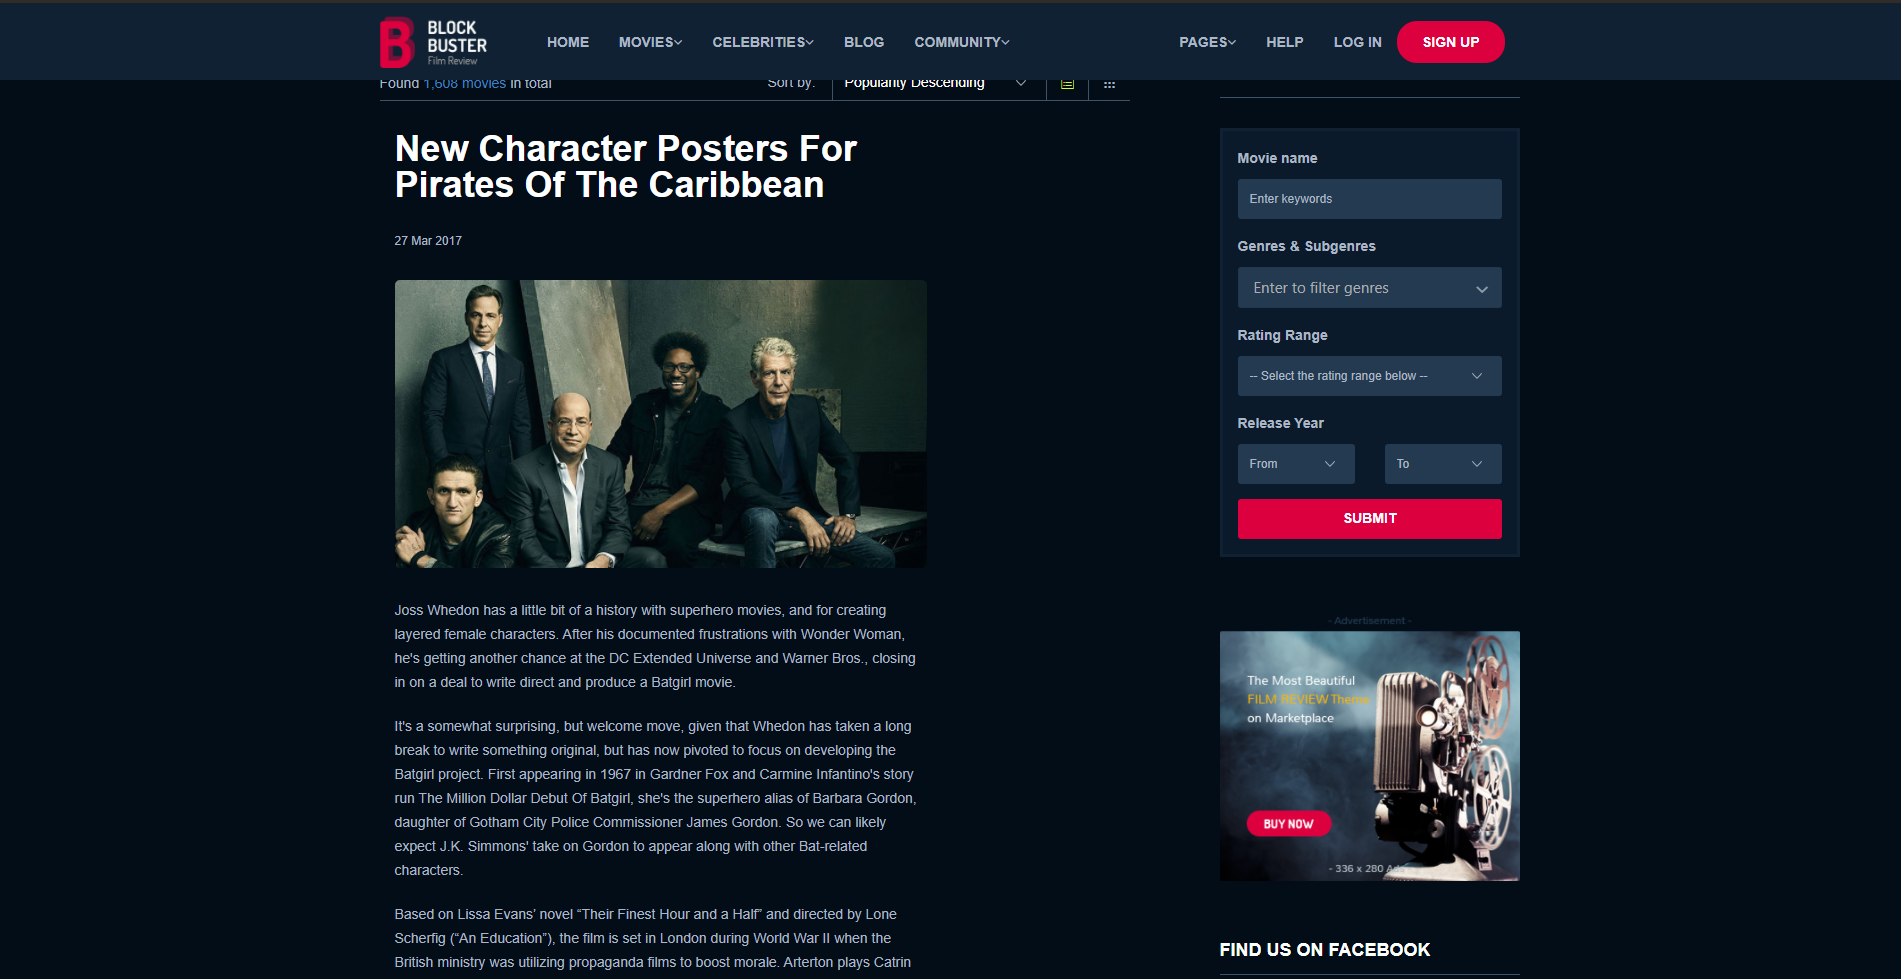
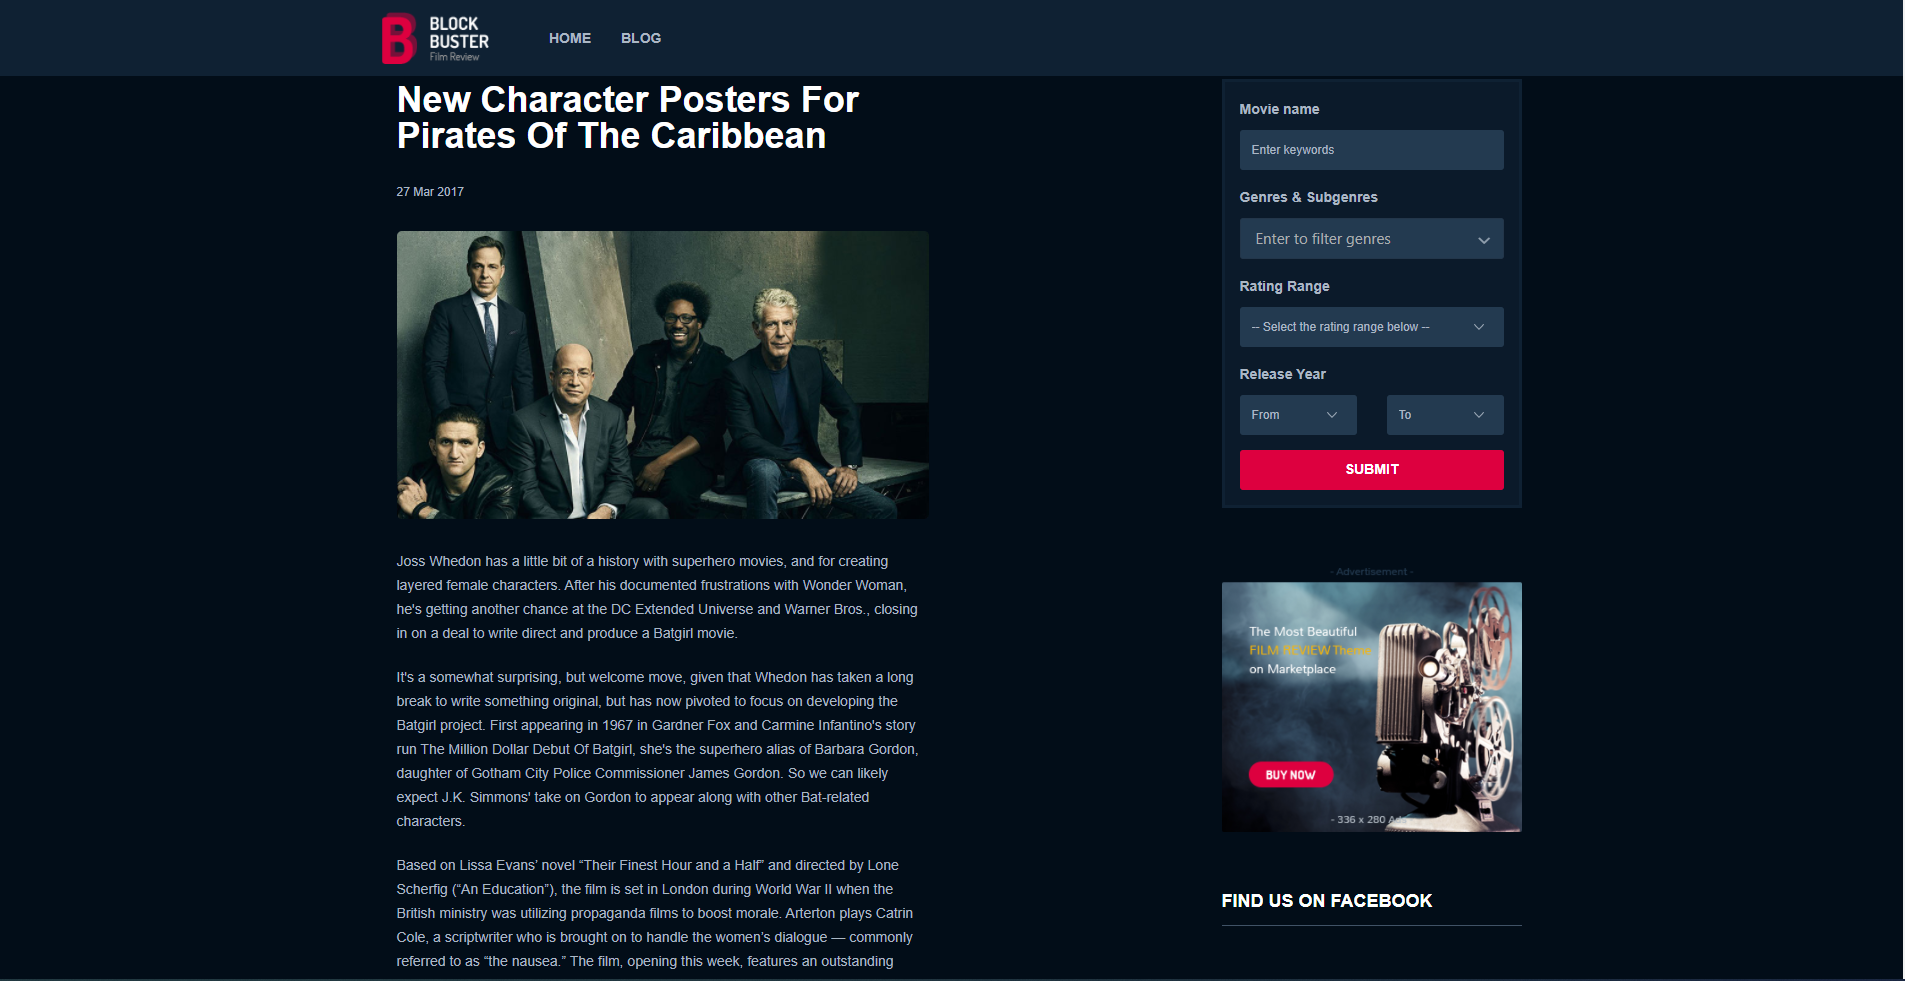
updated

Changed region(s): [[0.0, 0.0, 1.0, 1.0]]

diff --git a/src/views/PageWrapper.js b/src/views/PageWrapper.js
@@ -121,103 +121,9 @@ function PageWrapper(props) {
                   </a>
                 </li>
                 <li className='dropdown first'>
-                  <a lassName='btn btn-default dropdown-toggle lv1' data-toggle='dropdown' data-hover='dropdown'>
-                    movies<i className='fa fa-angle-down' aria-hidden='true'></i>
-                  </a>
-                  <ul className='dropdown-menu level1'>
-                    <li className='dropdown'>
-                      <a href='#' className='dropdown-toggle' data-toggle='dropdown'>
-                        Movie grid<i className='ion-ios-arrow-forward'></i>
-                      </a>
-                      <ul className='dropdown-menu level2'>
-                        <li>
-                          <a href='moviegrid.html'>Movie grid</a>
-                        </li>
-                        <li>
-                          <a href='moviegridfw.html'>movie grid full width</a>
-                        </li>
-                      </ul>
-                    </li>
-                    <li>
-                      <a href='movielist.html'>Movie list</a>
-                    </li>
-                    <li>
-                      <a href='moviesingle.html'>Movie single</a>
-                    </li>
-                    <li className='it-last'>
-                      <a href='seriessingle.html'>Series single</a>
-                    </li>
-                  </ul>
-                </li>
-                <li className='dropdown first'>
-                  <a className='btn btn-default dropdown-toggle lv1' data-toggle='dropdown' data-hover='dropdown'>
-                    celebrities <i className='fa fa-angle-down' aria-hidden='true'></i>
-                  </a>
-                  <ul className='dropdown-menu level1'>
-                    <li>
-                      <a href='celebritygrid01.html'>celebrity grid 01</a>
-                    </li>
-                    <li>
-                      <a href='celebritygrid02.html'>celebrity grid 02 </a>
-                    </li>
-                    <li>
-                      <a href='celebritylist.html'>celebrity list</a>
-                    </li>
-                    <li className='it-last'>
-                      <a href='celebritysingle.html'>celebrity single</a>
-                    </li>
-                  </ul>
-                </li>
-                <li className='dropdown first'>
                   <a href='/blog' className='btn btn-default dropdown-toggle lv1'>
                     BLOG
                   </a>
-                </li>
-                <li className='dropdown first'>
-                  <a className='btn btn-default dropdown-toggle lv1' data-toggle='dropdown' data-hover='dropdown'>
-                    community <i className='fa fa-angle-down' aria-hidden='true'></i>
-                  </a>
-                  <ul className='dropdown-menu level1'>
-                    <li>
-                      <a href='userfavoritegrid.html'>user favorite grid</a>
-                    </li>
-                    <li>
-                      <a href='userfavoritelist.html'>user favorite list</a>
-                    </li>
-                    <li>
-                      <a href='userprofile.html'>user profile</a>
-                    </li>
-                    <li className='it-last'>
-                      <a href='userrate.html'>user rate</a>
-                    </li>
-                  </ul>
-                </li>
-              </ul>
-              <ul className='nav navbar-nav flex-child-menu menu-right'>
-                <li className='dropdown first'>
-                  <a className='btn btn-default dropdown-toggle lv1' data-toggle='dropdown' data-hover='dropdown'>
-                    pages <i className='fa fa-angle-down' aria-hidden='true'></i>
-                  </a>
-                  <ul className='dropdown-menu level1'>
-                    <li>
-                      <a href='landing.html'>Landing</a>
-                    </li>
-                    <li>
-                      <a href='404.html'>404 Page</a>
-                    </li>
-                    <li className='it-last'>
-                      <a href='comingsoon.html'>Coming soon</a>
-                    </li>
-                  </ul>
-                </li>
-                <li>
-                  <a href='#'>Help</a>
-                </li>
-                <li className='loginLink'>
-                  <a href='#'>LOG In</a>
-                </li>
-                <li className='btn signupLink'>
-                  <a href='#'>sign up</a>
                 </li>
               </ul>
             </div>
@@ -276,9 +182,8 @@ function PageWrapper(props) {
                   <i className='ion-grid'></i>
                 </a>
               </div>
-              
+
               {props.children}
-              
             </div>
             <div className='col-md-4 col-sm-12 col-xs-12'>
               <div className='sidebar'>
